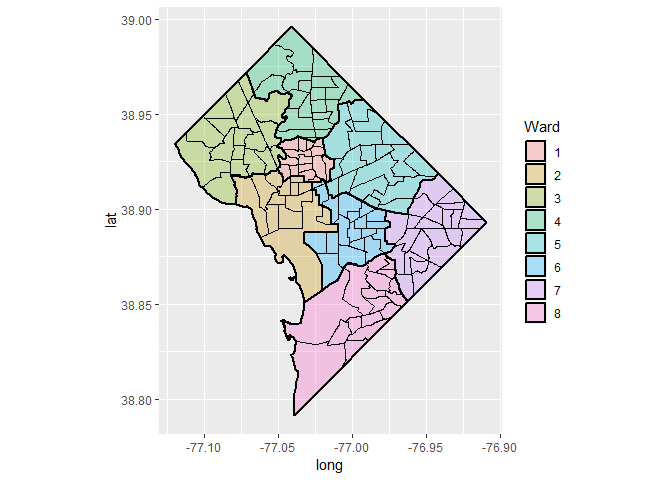
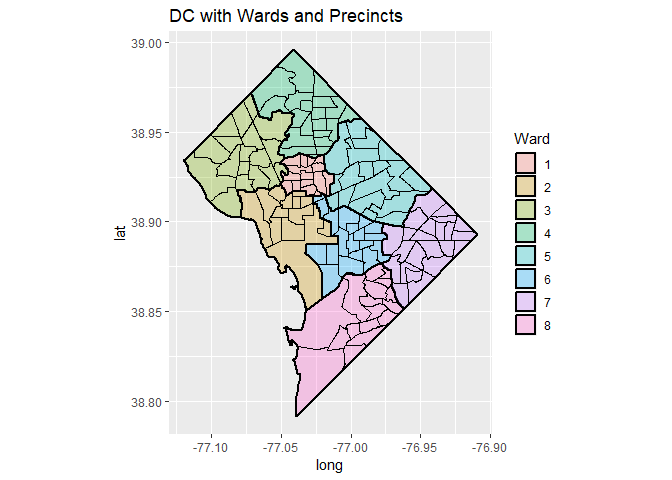
read me changes

diff --git a/README.md b/README.md
@@ -1,7 +1,9 @@
 How to DCmapR
 ================
 Edward ‘Bingo’ LaHaye
-2019-04-08
+2019-04-09
+
+<img src="inst/DCmapRSMALL.png" align="right" />
 
 ## Introduction
 
@@ -33,17 +35,9 @@ TRUE` as the argument, or you can leave it blank.
 
 ``` r
 library(DCmapR)
-```
-
-    ## Loading required package: sp
-
-    ## Welcome to DCmapR
-
-``` r
 # For example lets get the dataframe for wards
 WardsDF <- get_Ward(dataframe = TRUE)
 # And you can easily plot this using ggplot2
-library(ggplot2)
 mapOG <- ggplot() +
   geom_polygon(data = WardsDF, aes(x = long, y = lat, group = group, fill = factor(Ward)),
                col  = "black", alpha = 0.3, size = 1) + 
@@ -132,12 +126,19 @@ the shapefile.
 PrecinctDF <- get_Precinct(dataframe = TRUE)
 #Take the first map we made and layer onto it
 mapOG + 
-  geom_polygon(data = PrecinctDF, aes(x = long, y = lat, group = group), inherit.aes = FALSE, fill = NA, colour = 'black')
+  geom_polygon(data = PrecinctDF, aes(x = long, y = lat, group = group), inherit.aes = FALSE, fill = NA, colour = 'black') + 
+  ggtitle("DC with Wards and Precincts")
 ```
 
 ![](README_files/figure-gfm/unnamed-chunk-4-1.png)<!-- -->
 
-This map is looking great, now lets zoom into Ward 8.
+## Future Features
+
+Along the development I came accross some roadblocks in zooming in with
+the precincts and wards as they don’t have labels for which Ward they
+belong in. So right now we are working on catagorizing all of the
+precincts so that they word properly with wards if you so wish to zoom
+in on each ward.
 
 ``` r
 #Trim to ward 8, I'm not sure why its polygon number is 1
@@ -163,9 +164,9 @@ ggplot() +
 
 ![](README_files/figure-gfm/unnamed-chunk-5-2.png)<!-- -->
 
-Refining the method of defining which precincts are in each ward will be
-in the next version of DCmapR. As you can see it gets pretty close, and
-with some tweaking could turn into a nice chloropleth map.
+A refined precincts dataset will be in the next version of DCmapR. As
+you can see it gets pretty close, and with some tweaking could turn into
+a nice chloropleth map.
 
 ## Conclusion
 
